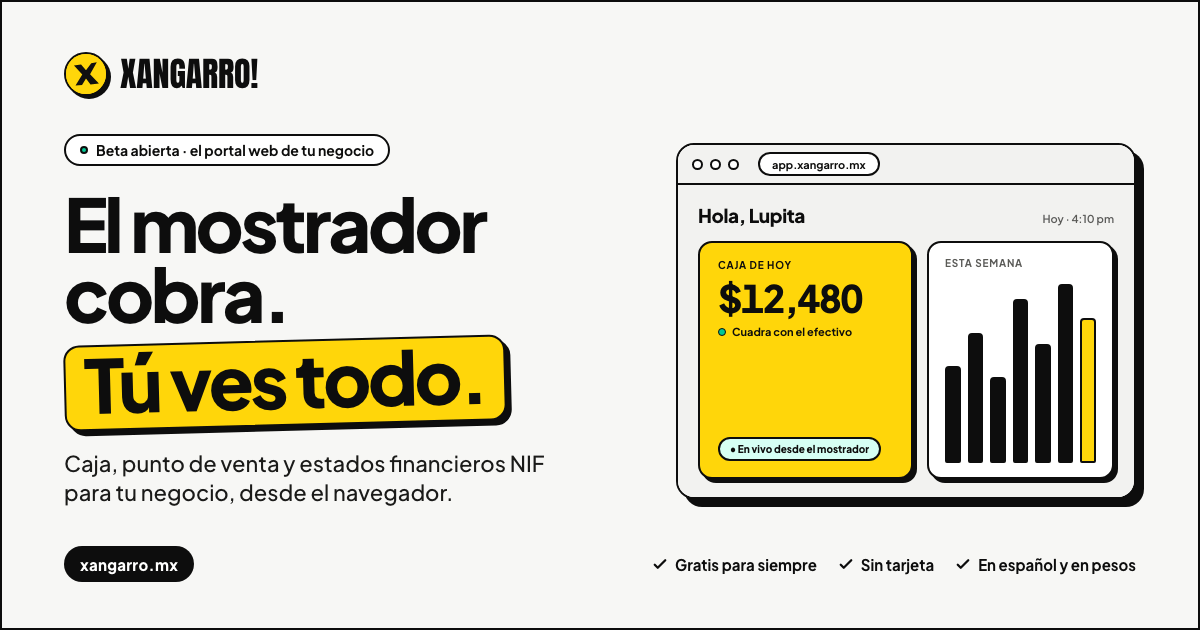
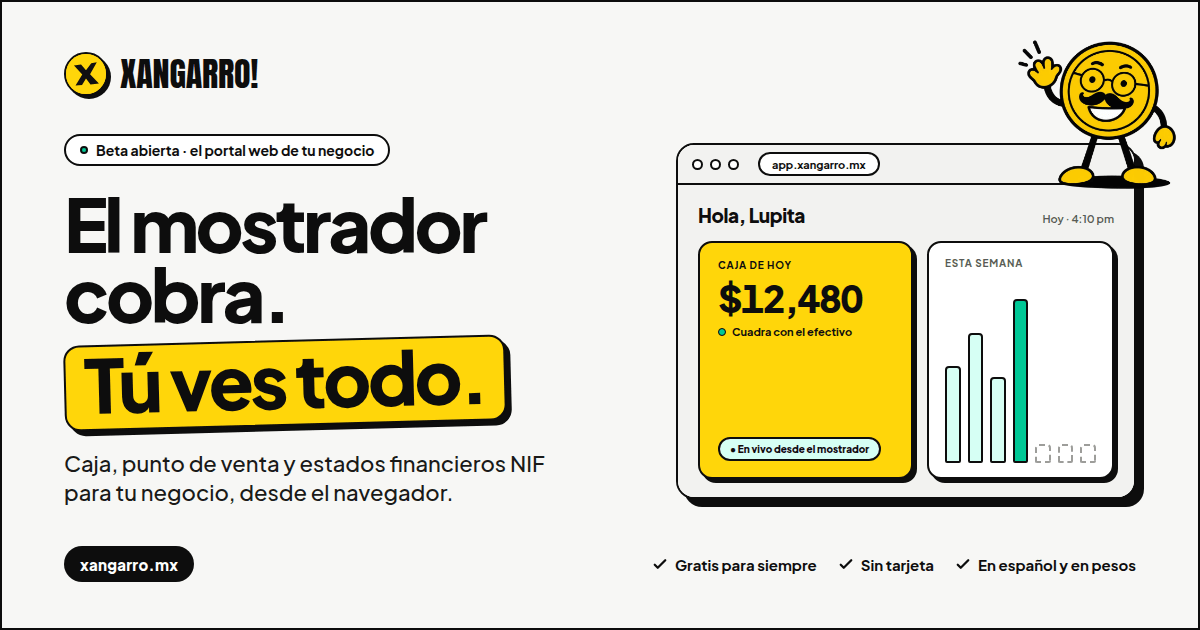
feat(landing): Don Cuentas across the page, and what is new (ADR-107)
- Don.jsx + don.css: the portal's poses and motion (hola, quieto with
  blink, senalando, ayuda, caminando, celebrando); every motion stops
  under prefers-reduced-motion.
- Hero: Don waves from the stage with his line, the caja phone stays,
  the stamp moves to the window's corner; the week chart is green up to
  today and dashed after it, and it sits where the phone no longer
  covers it. Copy without em dashes.
- Don Cuentas section on full yellow with Don standing over his name
  plate; the AI review point carries a «Pronto» pill.
- New «Lo nuevo del portal»: Para no perder, Nuevo producto in 3
  questions (the icon is suggested from the name and can be changed),
  Equipo y nómina, Ayuda.
- Poses: walking in «Una cuenta, tres puertas», pointing at the prices,
  ready to help by the FAQ, celebrating the final call to action.
- Social card: Don waving over the window, green bars.

Claude-Session: https://claude.ai/code/session_01QiXY4N9MrDdeD62wgdkg78

diff --git a/apps/landing/home/hero.css b/apps/landing/home/hero.css
@@ -18,9 +18,15 @@
 .hero-art-m .hero-stage { left: 22px; top: 22px; right: -8px; bottom: 0; }
 .hero-toast { position: absolute; right: 60px; top: 500px; height: 36px; padding: 0 14px; display: flex; align-items: center; gap: 6px; background: var(--green-soft); border: var(--border-thin); border-radius: 9999px; box-shadow: var(--shadow-sm); font-size: 13px; font-weight: 800; color: var(--black); }
 .hero-art-m .hero-toast { right: 20px; top: 350px; height: 30px; font-size: 12px; }
-.hero-label { position: absolute; right: 196px; top: 566px; height: 34px; padding: 0 14px; display: flex; align-items: center; gap: 8px; background: var(--black); color: var(--white); border-radius: 9999px; font-size: 12px; font-weight: 800; }
-.hero-stamp { position: absolute; left: -64px; bottom: -26px; }
-.hero-art-m .hero-stamp { left: 0; top: 318px; bottom: auto; }
+.hero-label { position: absolute; right: 250px; top: -17px; height: 34px; padding: 0 14px; display: flex; align-items: center; gap: 8px; background: var(--black); color: var(--white); border-radius: 9999px; font-size: 12px; font-weight: 800; }
+.hero-stamp { position: absolute; left: -70px; top: -86px; }
+.hero-don { position: absolute; left: -110px; top: 420px; }
+.hero-dice { position: absolute; left: 96px; top: 562px; width: 250px; margin: 0; }
+.hero-art-d .bw-grid2 { grid-template-columns: minmax(0, 1fr); }
+.hero-art-d .bw-bars { justify-content: space-between; }
+.hero-art-d .bw-barcol { flex-grow: 0; width: 34px; }
+.hero-art-m .hero-don { left: -6px; top: 290px; }
+.hero-art-m .hero-stamp { left: 118px; top: 312px; bottom: auto; }
 .hero-stamp-txt { position: absolute; inset: 0 5px 5px 0; display: flex; flex-direction: column; align-items: center; justify-content: center; text-align: center; gap: 3px; color: var(--white); font-size: 10px; font-weight: 800; letter-spacing: .08em; text-transform: uppercase; }
 .hero-stamp-txt .wm { color: var(--yellow); font-size: 26px; letter-spacing: -.005em; }
 .hero-art-m .hero-stamp-txt { font-size: 8px; }
@@ -56,8 +62,10 @@
 .bw-chart { display: flex; flex-direction: column; gap: 8px; }
 .bw-bars { flex-grow: 1; display: flex; align-items: flex-end; gap: 8px; height: 84px; }
 .bw-barcol { flex-grow: 1; display: flex; flex-direction: column; align-items: center; gap: 4px; font-size: 9px; font-weight: 700; color: var(--gray-600); }
-.bw-bar { width: 100%; box-sizing: border-box; border: var(--border-thin); border-radius: 4px 4px 2px 2px; background: var(--black); }
-.bw-bar.today { background: var(--yellow); }
+.bw-bar { width: 100%; box-sizing: border-box; border: var(--border-thin); border-radius: 4px 4px 2px 2px; background: var(--green-soft); }
+.bw-bar.today { background: var(--green); }
+.bw-bar.future { height: 12px !important; background: none; border-style: dashed; border-color: var(--gray-400); }
+.bw-barcol.today { color: var(--black); font-weight: 800; }
 .bw-kpis { display: grid; grid-template-columns: repeat(3, minmax(0, 1fr)); gap: 12px; }
 .bw-kpi { background: var(--white); border: var(--border-thin); border-radius: var(--r-12); box-shadow: var(--shadow-sm); padding: 11px 12px; }
 .bw-kpi .bw-label { font-size: 9px; }

diff --git a/apps/landing/home/LoNuevo.jsx b/apps/landing/home/LoNuevo.jsx
@@ -1,0 +1,99 @@
+import { Don } from './Don.jsx';
+import { Icon } from './icons.jsx';
+import { useInView } from './use-in-view.js';
+
+/** The four things the portal redesign added (ADR-107), each shown the way it looks. */
+function Minimo() {
+  return (
+    <span className="nv-big num">
+      $1,240<small> al día</small>
+    </span>
+  );
+}
+
+function Sugerido() {
+  return (
+    <div className="nv-sug">
+      <span className="nv-input">Taco de suadero</span>
+      <span className="nv-row">
+        <span className="nv-ico">
+          <Icon name="sandwich" size={16} />
+        </span>
+        Ícono sugerido · lo cambias si quieres
+      </span>
+    </div>
+  );
+}
+
+function Gente() {
+  return (
+    <ul className="nv-gente num">
+      <li>
+        Lupita · Caja 1<span>$2,400 / sem</span>
+      </li>
+      <li>
+        Beto · Caja 2<span>$2,100 / sem</span>
+      </li>
+    </ul>
+  );
+}
+
+const CARDS = [
+  {
+    tag: 'Estados financieros',
+    title: 'Cuánto vender para no perder',
+    body: 'La cascada de tu mes, paso por paso, y la cifra que importa: lo mínimo al día para salir tablas.',
+    Extra: Minimo,
+  },
+  {
+    tag: 'Productos',
+    title: 'Un producto nuevo en 3 preguntas',
+    body: '¿Cómo se llama? ¿En cuánto lo vendes? ¿Cuánto te cuesta? Por el nombre te sugerimos un ícono, y si no te late, lo cambias.',
+    Extra: Sugerido,
+  },
+  {
+    tag: 'Equipo y nómina',
+    title: 'Tu gente, en un solo lugar',
+    body: 'Quién cobra en qué caja y cuánto le pagas, juntos. Sin dos listas que no cuadran.',
+    Extra: Gente,
+  },
+  {
+    tag: 'Ayuda',
+    title: '¿En qué te echo la mano?',
+    body: 'Guías cortas, paso a paso, para el cierre de caja, tu primer producto o invitar a tu equipo.',
+  },
+];
+
+function Card({ c }) {
+  const { Extra } = c;
+  return (
+    <article className="xcard nv-card">
+      <span className="nv-tag">{c.tag}</span>
+      <h3>{c.title}</h3>
+      <p>{c.body}</p>
+      {Extra ? <Extra /> : null}
+    </article>
+  );
+}
+
+export function LoNuevo() {
+  const ref = useInView();
+  return (
+    <section id="nuevo" className="xh-sec" ref={ref} data-motion="">
+      <div className="xh-wrap">
+        <div className="xhead nv-head">
+          <div className="xhead-text">
+            <span className="xeyebrow">Lo nuevo del portal</span>
+            <h2 className="xh2">Cosas que antes te tocaba adivinar.</h2>
+          </div>
+          <Don pose="senalando" size={150} />
+        </div>
+        <div className="nv-grid">
+          {CARDS.map((c) => (
+            <Card key={c.tag} c={c} />
+          ))}
+        </div>
+      </div>
+    </section>
+  );
+}

diff --git a/apps/landing/home/doncuentas.css b/apps/landing/home/doncuentas.css
@@ -1,13 +1,16 @@
-.dc { background: var(--yellow-soft); }
+.dc { background: var(--yellow); }
 .dc-grid { display: grid; grid-template-columns: minmax(0, 1fr) minmax(0, 1.05fr); gap: 64px; align-items: start; }
 .dc-copy { display: flex; flex-direction: column; gap: 22px; }
-.dc-id { display: flex; align-items: center; gap: 16px; }
-.dc-big { border-width: 2.5px; box-shadow: var(--shadow-card); }
+.dc-id { display: flex; flex-direction: column; align-items: flex-start; }
+.dc-plate { margin-top: -6px; padding: 10px 20px; display: flex; flex-direction: column; align-items: center; gap: 4px; background: var(--black); border-radius: var(--r-16); }
+.dc-plate .wm { font-size: 26px; color: var(--yellow); letter-spacing: .04em; }
+.dc-plate span:last-child { font-size: 11px; font-weight: 800; letter-spacing: .14em; text-transform: uppercase; color: var(--white); }
 .dc-points { list-style: none; margin: 6px 0 0; padding: 0; display: flex; flex-direction: column; gap: 14px; }
 .dc-point { display: flex; gap: 14px; align-items: flex-start; }
 .dc-point p { margin: 0; font-size: 16px; line-height: 1.5; font-weight: 600; }
 .dc-point strong { font-weight: 800; }
-.dc-check { flex: none; width: 34px; height: 34px; border-radius: var(--r-10); background: var(--yellow); border: var(--border-thin); display: flex; align-items: center; justify-content: center; }
+.dc-check { flex: none; width: 34px; height: 34px; border-radius: var(--r-10); background: var(--white); border: var(--border-thin); display: flex; align-items: center; justify-content: center; }
+.dc-pronto { flex: none; height: 30px; padding: 0 10px; display: flex; align-items: center; border-radius: 9999px; background: var(--white); border: var(--border-thin); font-size: 11px; font-weight: 800; letter-spacing: .08em; text-transform: uppercase; color: var(--black); }
 .dc-side { display: flex; flex-direction: column; gap: 28px; }
 
 .dc-chat { border-width: 2.5px; padding: 22px; display: flex; flex-direction: column; gap: 14px; }
@@ -43,7 +46,8 @@
 
 @media (max-width: 1099px) { .dc-grid { grid-template-columns: minmax(0, 1fr); gap: 40px; } }
 @media (max-width: 699px) {
-  .dc-id .dc-big { width: 60px !important; height: 60px !important; }
+  .dc-id { align-items: center; }
+  .dc-id .don { width: 170px !important; height: 170px !important; }
   .dc-meta { min-height: 0; display: flex; flex-direction: column; align-items: center; gap: 12px; }
   .dc-seal { position: relative; right: auto; top: auto; width: 200px; height: 200px; transform: rotate(8deg); }
   .dc-bubble { font-size: 14px; }

diff --git a/apps/landing/home/don.css b/apps/landing/home/don.css
@@ -1,0 +1,31 @@
+/* Don Cuentas's motion, as in the portal (apps/web components/don). The pose
+ * alone still says what he means when motion is reduced. */
+.don { position: relative; display: inline-block; flex: none; transform-origin: 50% 92%; }
+.don-img { display: block; width: 100%; height: 100%; object-fit: contain; }
+.don-blink { position: absolute; inset: 0; opacity: 0; animation: don-parpadea 4.6s steps(1, end) infinite; }
+.don-respira { animation: don-respira 3.4s ease-in-out infinite; }
+.don-camina { animation: don-camina .9s ease-in-out infinite; }
+.don-saluda { animation: don-saluda 2.2s ease-in-out infinite; }
+.don-salta { animation: don-salta 1.1s ease-in-out infinite; }
+
+@keyframes don-respira { 0%, 100% { transform: translateY(0) scale(1); } 50% { transform: translateY(-4px) scale(1.015); } }
+@keyframes don-camina { 0%, 50%, 100% { transform: translateY(0) rotate(0); } 25% { transform: translateY(-5px) rotate(-1.5deg); } 75% { transform: translateY(-5px) rotate(1.5deg); } }
+@keyframes don-saluda { 0%, 80%, 100% { transform: rotate(0); } 20% { transform: rotate(-4deg); } 40% { transform: rotate(3deg); } 60% { transform: rotate(-2deg); } }
+@keyframes don-salta { 0%, 100% { transform: translateY(0) scale(1, 1); } 35% { transform: translateY(-24px) scale(.98, 1.03); } 70% { transform: translateY(0) scale(1.04, .96); } }
+@keyframes don-parpadea { 0% { opacity: 0; } 92% { opacity: 1; } 95% { opacity: 0; } 97% { opacity: 1; } 99% { opacity: 0; } }
+
+@media (prefers-reduced-motion: reduce) {
+  .don, .don-blink { animation: none !important; }
+}
+
+/* Don beside a speech bubble. */
+.don-dice { position: relative; padding: 12px 16px; background: var(--white); border: var(--border-thick); border-radius: 18px 18px 18px 4px; box-shadow: var(--shadow-sm); font-size: 15px; font-weight: 800; line-height: 1.3; color: var(--black); }
+
+/* Where he stands in each section. */
+.pu-eyebrow { display: flex; align-items: center; gap: 8px; margin-left: -12px; }
+.faq-don { margin-top: 8px; }
+.cta-copy { flex: 1; }
+@media (max-width: 699px) {
+  .cta-don { width: 120px !important; height: 120px !important; }
+  .faq-don { display: none; }
+}

diff --git a/apps/landing/home/nuevo.css b/apps/landing/home/nuevo.css
@@ -1,0 +1,22 @@
+.nv-head { align-items: flex-end; flex-wrap: nowrap; }
+.nv-grid { display: grid; grid-template-columns: repeat(4, minmax(0, 1fr)); gap: 20px; }
+.nv-card { padding: 22px; display: flex; flex-direction: column; gap: 10px; }
+.nv-card h3 { margin: 0; font-size: 22px; line-height: 1.15; font-weight: 800; letter-spacing: -.02em; color: var(--black); }
+.nv-card p { margin: 0; font-size: 15px; line-height: 1.5; font-weight: 600; color: var(--ink); }
+.nv-tag { align-self: flex-start; height: 28px; padding: 0 12px; display: flex; align-items: center; border-radius: 9999px; background: var(--yellow); border: var(--border-thin); font-size: 12px; font-weight: 800; color: var(--black); }
+.nv-big { margin-top: auto; font-family: Anton, Impact, sans-serif; font-size: 36px; color: var(--black); }
+.nv-big small { font-family: var(--font-sans); font-size: 14px; font-weight: 800; color: var(--gray-600); }
+.nv-sug { margin-top: auto; display: flex; flex-direction: column; gap: 8px; }
+.nv-input { height: 38px; box-sizing: border-box; display: flex; align-items: center; padding: 0 12px; border: var(--border-thin); border-radius: var(--r-10); font-size: 14px; font-weight: 700; color: var(--black); }
+.nv-row { display: flex; align-items: center; gap: 8px; font-size: 13px; font-weight: 700; color: var(--ink); }
+.nv-ico { flex: none; width: 34px; height: 34px; display: flex; align-items: center; justify-content: center; border-radius: var(--r-10); background: var(--warning-soft); border: var(--border-thin); color: var(--black); }
+.nv-gente { margin: auto 0 0; padding: 0; list-style: none; display: flex; flex-direction: column; gap: 6px; font-size: 13px; font-weight: 700; color: var(--black); }
+.nv-gente li { display: flex; justify-content: space-between; gap: 8px; padding-bottom: 6px; }
+.nv-gente li + li { padding-bottom: 0; }
+.nv-gente li:first-child { border-bottom: var(--border-thin); }
+
+@media (max-width: 1099px) { .nv-grid { grid-template-columns: repeat(2, minmax(0, 1fr)); } }
+@media (max-width: 699px) {
+  .nv-grid { grid-template-columns: minmax(0, 1fr); }
+  .nv-head .don { width: 80px !important; height: 80px !important; }
+}

diff --git a/apps/landing/home/DonCuentasSection.jsx b/apps/landing/home/DonCuentasSection.jsx
@@ -1,6 +1,7 @@
 import { DonCuentasChat } from './DonCuentasChat.jsx';
 import { DonCuentasMeta } from './DonCuentasMeta.jsx';
-import { DonCuentas, Icon } from './icons.jsx';
+import { Don } from './Don.jsx';
+import { Icon } from './icons.jsx';
 import { useInView } from './use-in-view.js';
 
 const POINTS = [
@@ -16,7 +17,7 @@ const POINTS = [
   },
   {
     k: 'ia',
-    b: 'Pronto: cada fin de mes, tu revisión con IA.',
+    b: 'Cada fin de mes, tu revisión con IA.',
     t: 'Qué funcionó, qué no y qué precios ajustar, con tus números de verdad. Y después, tu catálogo desde una foto.',
   },
 ];
@@ -25,7 +26,7 @@ function Point({ p }) {
   return (
     <li className="dc-point">
       {p.k === 'ia' ? (
-        <DonCuentas size={34} />
+        <span className="dc-pronto">Pronto</span>
       ) : (
         <span className="dc-check">
           <Icon name="check" size={18} />
@@ -45,8 +46,11 @@ export function DonCuentasSection() {
       <div className="xh-wrap dc-grid">
         <div className="dc-copy">
           <div className="dc-id">
-            <DonCuentas size={76} className="dc-big" />
-            <span className="xeyebrow">Don Cuentas · tu contador de cabecera</span>
+            <Don pose="quieto" size={200} />
+            <div className="dc-plate">
+              <span className="wm">Don Cuentas</span>
+              <span>Tu contador de cabecera</span>
+            </div>
           </div>
           <h2 className="xh2">Te echa aguas antes de que duela.</h2>
           <p className="xlead">

diff --git a/apps/landing/home/HeroArt.jsx b/apps/landing/home/HeroArt.jsx
@@ -1,4 +1,5 @@
 import { BrowserMock } from './BrowserMock.jsx';
+import { Don } from './Don.jsx';
 import { PhoneMock } from './PhoneMock.jsx';
 import { Icon, sealPath } from './icons.jsx';
 
@@ -19,7 +20,7 @@ function Stamp({ size }) {
 }
 
 const LABEL =
-  'El portal de Xangarro muestra la utilidad del mes mientras la caja, en un teléfono, cobra una venta de $85.00 que llega sola al portal.';
+  'El portal de Xangarro muestra la utilidad del mes mientras la caja, en un teléfono, cobra una venta de $85.00 que llega sola al portal. Don Cuentas saluda: yo te cuido los números mientras tú atiendes.';
 
 /** The hero composite: portal in a browser, the caja on a phone, the sale flying across. */
 export function HeroArt() {
@@ -34,6 +35,12 @@ export function HeroArt() {
           +$85.00
         </div>
         <Stamp size={160} />
+        <div className="hero-don">
+          <Don pose="hola" size={200} eager />
+        </div>
+        <p className="don-dice hero-dice">
+          ¡Quiúbole! Yo te cuido los números mientras tú atiendes.
+        </p>
         <div className="hero-label">
           <Icon name="sync" size={15} />
           Cada venta llega sola al portal
@@ -47,6 +54,9 @@ export function HeroArt() {
           +$85.00
         </div>
         <Stamp size={116} />
+        <div className="hero-don">
+          <Don pose="hola" size={130} eager />
+        </div>
       </div>
     </>
   );

diff --git a/apps/landing/home/Don.jsx b/apps/landing/home/Don.jsx
@@ -1,0 +1,33 @@
+/**
+ * Don Cuentas, full body, the same poses the portal uses (ADR-107). One pose
+ * per section: `hola` greets in the hero, `quieto` listens (and blinks),
+ * `senalando` points at what is new and at the prices, `ayuda` sits by the
+ * questions, `caminando` walks through how it works, `celebrando` cheers the
+ * sign-up. Every motion stops under prefers-reduced-motion (don.css).
+ */
+const MOTION = {
+  hola: 'saluda',
+  quieto: 'respira',
+  senalando: 'respira',
+  ayuda: 'respira',
+  caminando: 'camina',
+  celebrando: 'salta',
+};
+
+/** Decorative by default: his words always travel as text beside him. */
+export function Don({ pose, size = 160, alt = '', eager = false, className = '' }) {
+  const src = `/assets/don/${pose}.webp`;
+  const img = { width: size, height: size, loading: eager ? 'eager' : 'lazy', decoding: 'async' };
+  return (
+    <span
+      className={`don don-${MOTION[pose]} ${className}`}
+      style={{ width: size, height: size }}
+      aria-hidden={alt ? undefined : 'true'}
+    >
+      <img className="don-img" src={src} alt={alt} {...img} />
+      {pose === 'quieto' ? (
+        <img className="don-img don-blink" src="/assets/don/quieto-parpadeo.webp" alt="" {...img} />
+      ) : null}
+    </span>
+  );
+}

diff --git a/apps/landing/home/Hero.jsx b/apps/landing/home/Hero.jsx
@@ -21,10 +21,10 @@ export function Hero() {
             <span className="hero-hl">Tú ves todo.</span>
           </h1>
           <p className="xlead hero-sub">
-            Xangarro es el sistema de caja y control financiero para negocios pequeños en México:
-            punto de venta y estados financieros NIF desde el navegador. La caja —en la computadora,
-            la tablet o el teléfono— es la herramienta de tu equipo: ellos cobran y tú ves todo
-            aquí, al momento.
+            Xangarro es el punto de venta y control financiero para negocios pequeños en México. Tu
+            equipo cobra en la caja, desde la computadora, la tablet o el teléfono, y tú ves todo al
+            momento, hasta tus estados financieros NIF.{' '}
+            <strong>Y Don Cuentas te lo platica en cristiano.</strong>
           </p>
           <div className="hero-ctas">
             <a className="xbtn xbtn-dark" href={signupUrl('xangarrito')}>

diff --git a/apps/landing/home/BrowserMock.jsx b/apps/landing/home/BrowserMock.jsx
@@ -12,6 +12,12 @@ const SIDE = [
 ];
 const BARS = [44, 58, 50, 66, 62, 84, 72];
 const DAYS = ['L', 'M', 'M', 'J', 'V', 'S', 'D'];
+/** Thursday: the days before it earned, the rest of the week has not happened yet. */
+const TODAY = 3;
+const barClass = (i) => {
+  if (i === TODAY) return 'bw-bar today a-bar';
+  return i > TODAY ? 'bw-bar future' : 'bw-bar';
+};
 
 function Sidebar() {
   return (
@@ -36,8 +42,8 @@ function Chart() {
       <div className="bw-label">Ventas de la semana</div>
       <div className="bw-bars">
         {BARS.map((h, i) => (
-          <div key={i} className="bw-barcol">
-            <div className={i === 3 ? 'bw-bar today a-bar' : 'bw-bar'} style={{ height: h }} />
+          <div key={i} className={i === TODAY ? 'bw-barcol today' : 'bw-barcol'}>
+            <div className={barClass(i)} style={{ height: h }} />
             <span>{DAYS[i]}</span>
           </div>
         ))}

diff --git a/apps/landing/landing/copy.jsx b/apps/landing/landing/copy.jsx
@@ -43,7 +43,7 @@ export const FAQ_ITEMS = [
   },
   {
     q: '¿Qué métodos de pago puedo registrar?',
-    a: 'Puedes registrar ventas en efectivo, tarjeta de débito o crédito, transferencia bancaria (SPEI) y crédito (fiado) para tus clientes frecuentes. El formulario se adapta al giro de tu negocio — si solo cobras efectivo, los demás métodos no estorban.',
+    a: 'Puedes registrar ventas en efectivo, tarjeta de débito o crédito, transferencia bancaria (SPEI) y crédito (fiado) para tus clientes frecuentes. El formulario se adapta al giro de tu negocio: si solo cobras efectivo, los demás métodos no estorban.',
   },
   {
     q: '¿Mis datos están seguros? ¿Quién puede verlos?',

diff --git a/apps/landing/home/Puertas.jsx b/apps/landing/home/Puertas.jsx
@@ -1,3 +1,4 @@
+import { Don } from './Don.jsx';
 import { Icon } from './icons.jsx';
 
 const PUERTAS = [
@@ -67,7 +68,10 @@ export function Puertas() {
       <div className="xh-wrap">
         <div className="xhead">
           <div className="xhead-text">
-            <span className="xeyebrow">Una cuenta, tres puertas</span>
+            <div className="pu-eyebrow">
+              <Don pose="caminando" size={96} />
+              <span className="xeyebrow">Una cuenta, tres puertas</span>
+            </div>
             <h2 className="xh2">
               El cuartel está en la web. Las herramientas, donde está la chamba.
             </h2>
